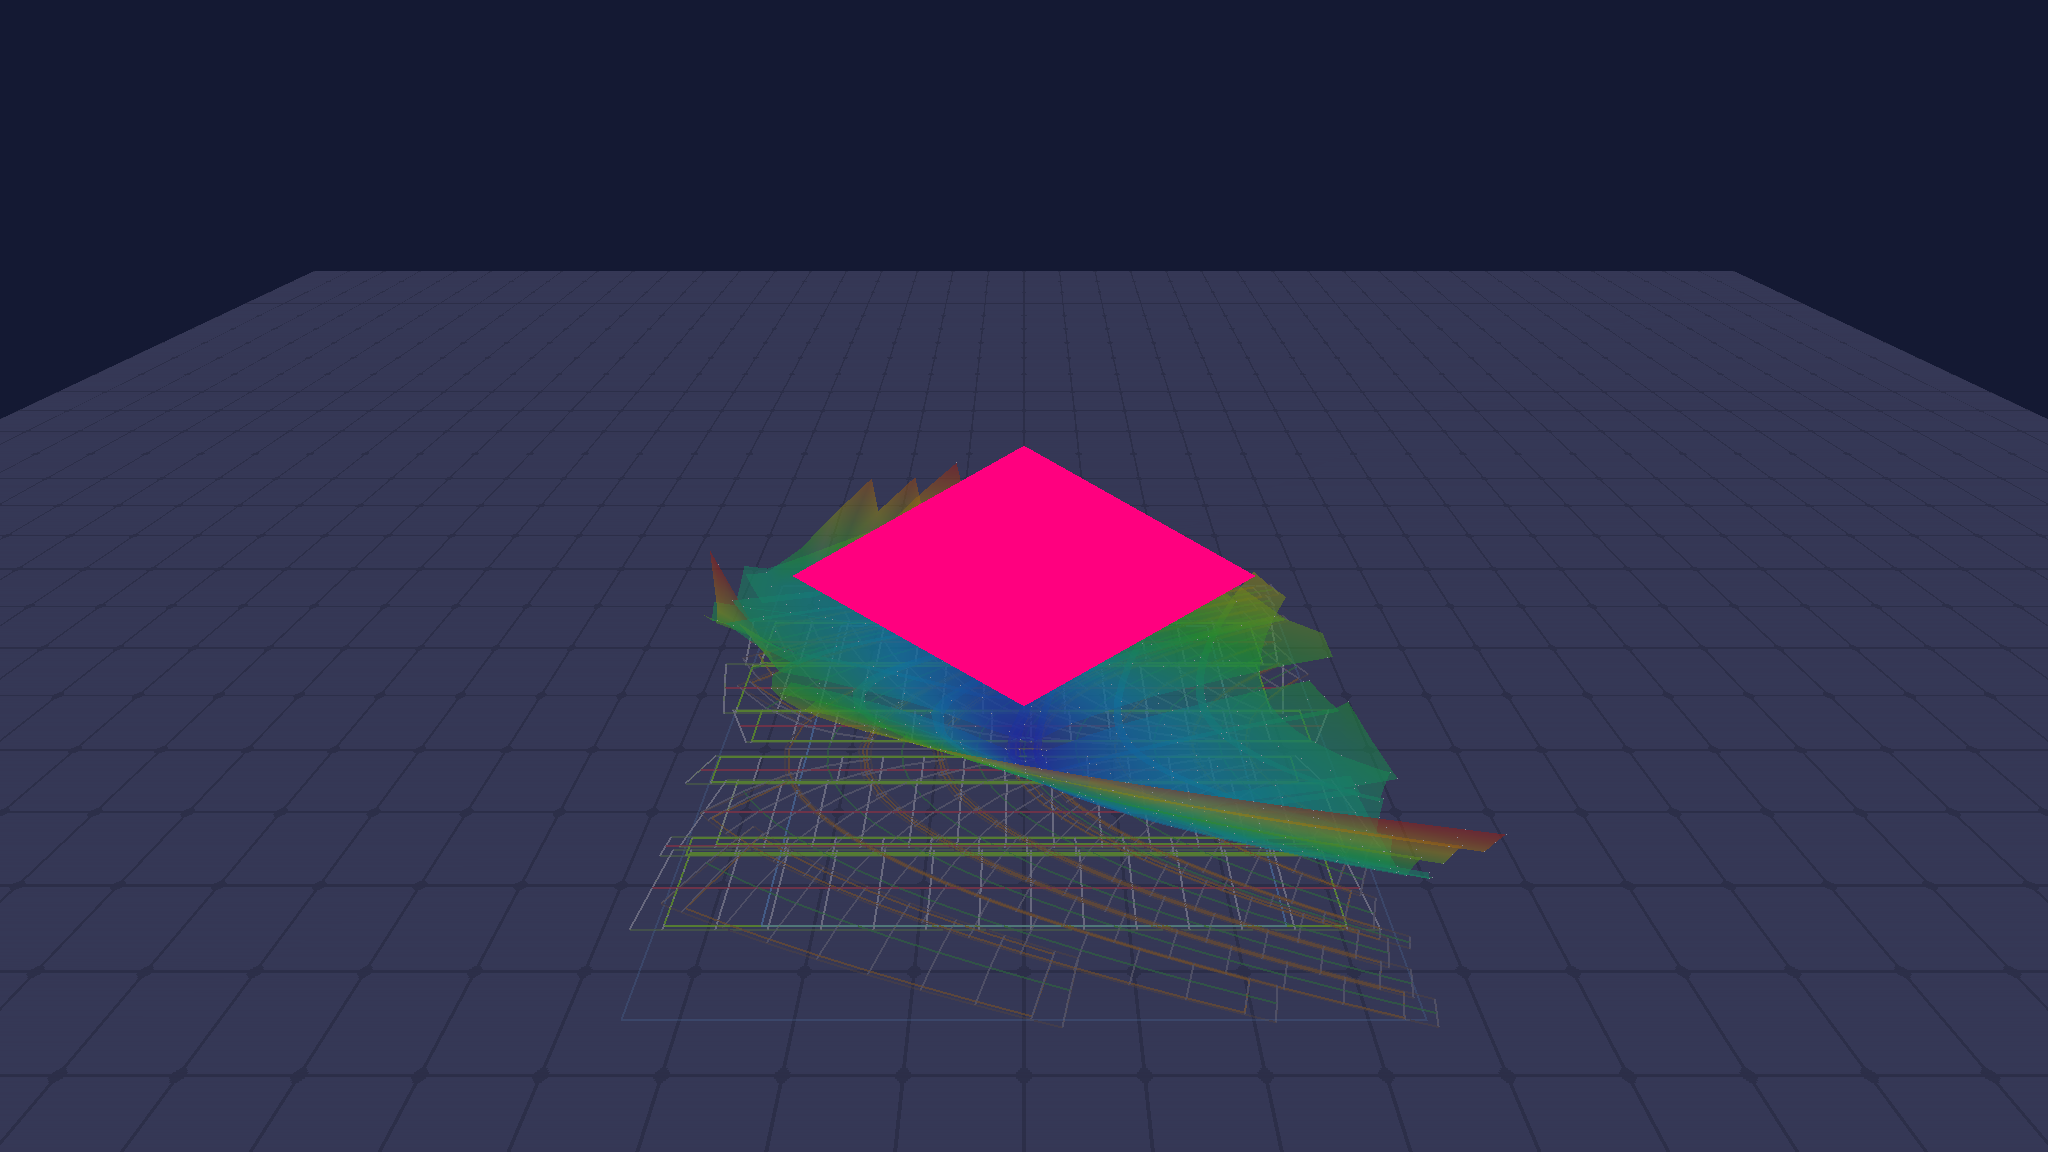
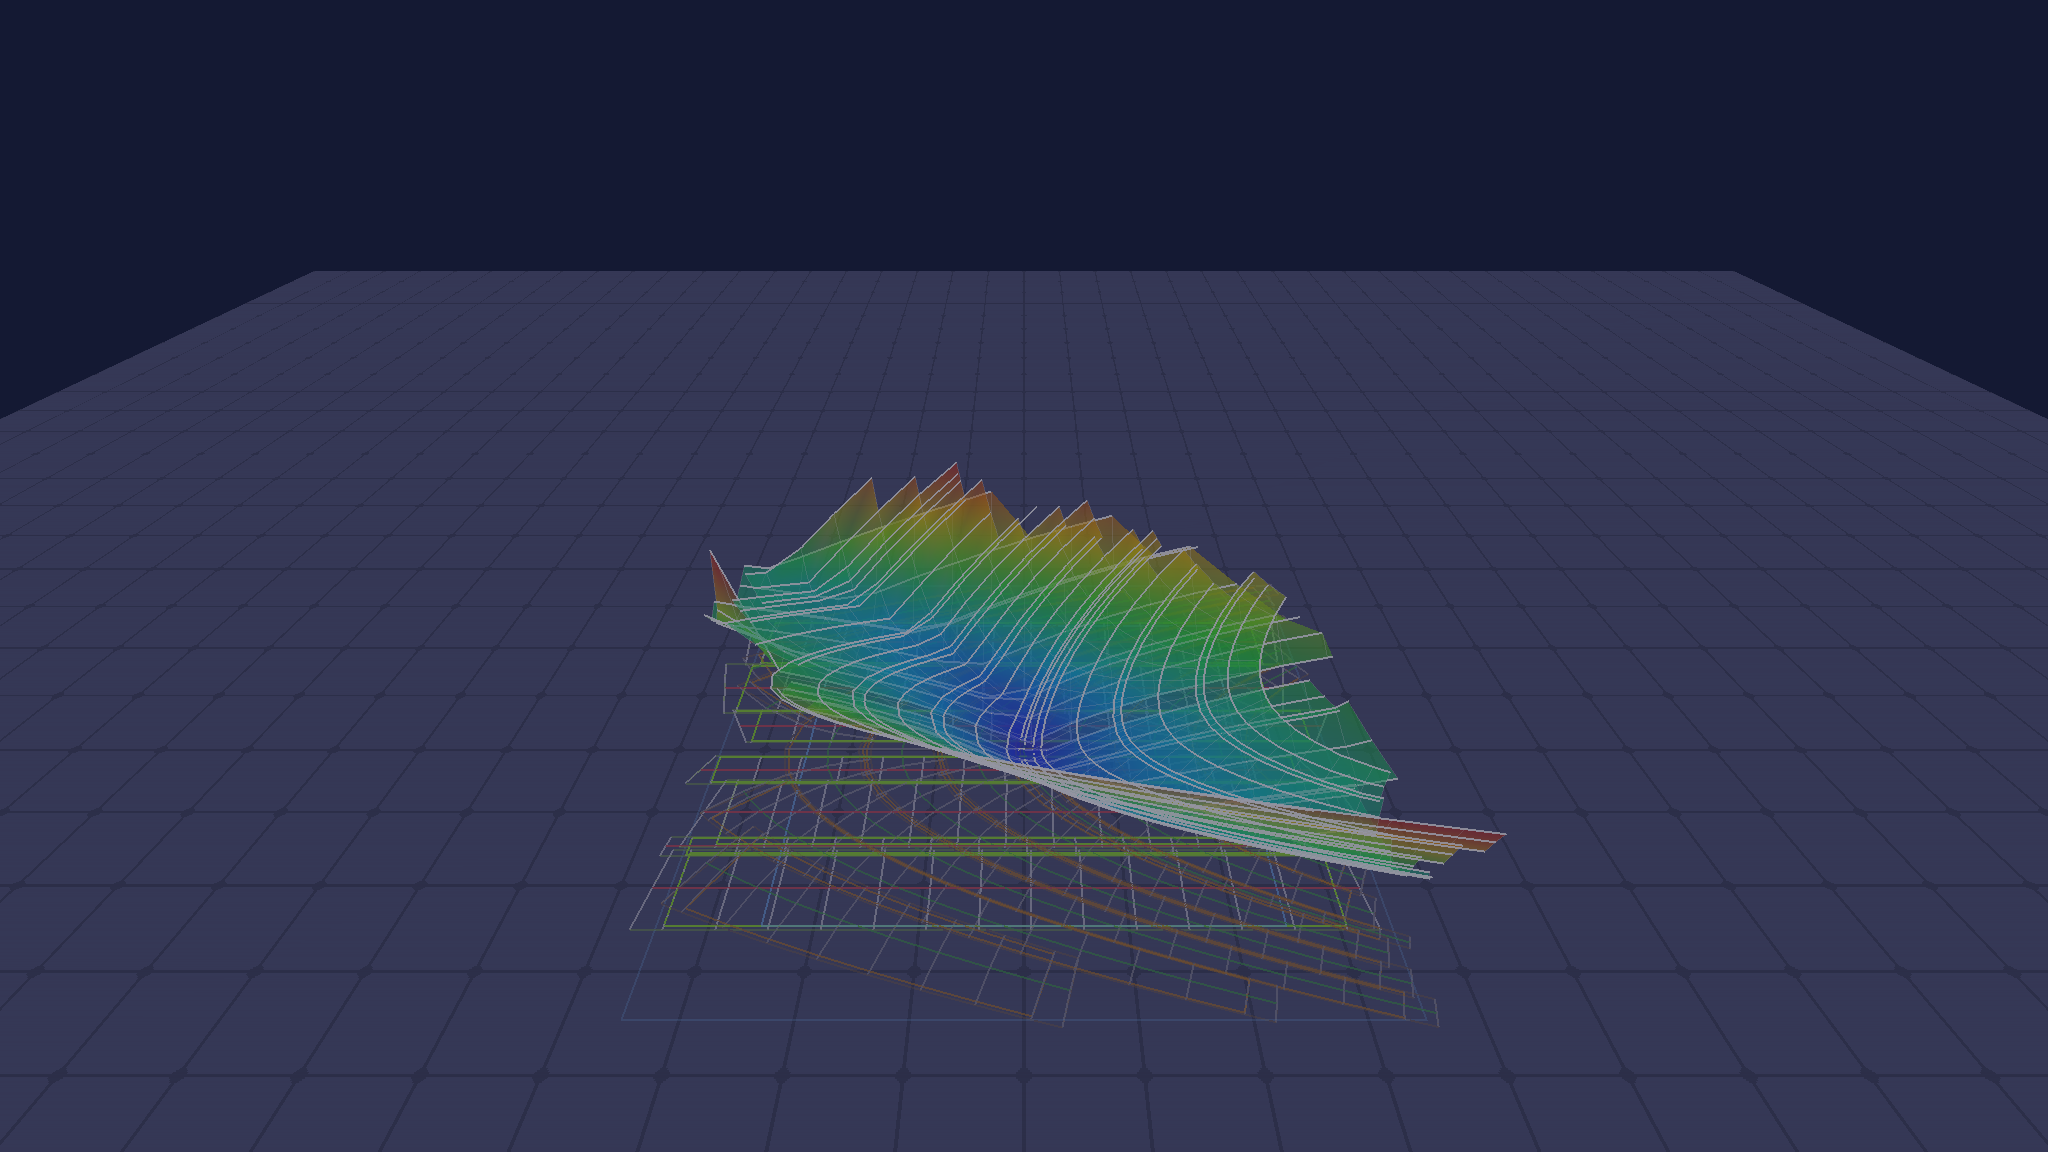
[laptop-v5chain-worker-4]: v8 — скелет на V-поверхности: линии вдоль траекторий и прозрачные поперечные (env VSURF_LONG_ALPHA/CROSS_ALPHA), тест рёбер
Claude-Session: https://claude.ai/code/session_0125J4RdEjwDP3recZhTuSTU

Changed region(s): [[0.3438, 0.375, 0.7188, 0.7812]]

diff --git a/spores_2/v8/src/stepper/vsurf.py b/spores_2/v8/src/stepper/vsurf.py
@@ -8,6 +8,8 @@ import numpy as np
 
 VH = float(os.environ.get('VSURF_H', .35))                 # высота на единицу V (в мировых единицах до зума)
 ALPHA = float(os.environ.get('VSURF_ALPHA', .55))
+LONG_A = float(os.environ.get('VSURF_LONG_ALPHA', .9))     # скелет: линии вдоль траекторий эволюции (узлы одного столбца)
+CROSS_A = float(os.environ.get('VSURF_CROSS_ALPHA', .25))   # скелет: поперечные линии (узлы одной строки), заметно прозрачнее
 BIG = 1e9                                                   # solve8.BIG: V ≥ BIG/2 — «нет пути»
 GRAD = np.array([[0., .20, .25, .95], [.25, .10, .75, .95], [.5, .20, .90, .30], [.75, 1., .85, .10], [1., .95, .20, .15]])     # t, R, G, B: синий → бирюзовый → зелёный → жёлтый → красный
 
@@ -40,15 +42,17 @@ def vscale(Vs_u, q=99.):
 
 
 def build_mesh(cells, Vs, ax=(0, 1), vmax=1., h=VH, alpha=ALPHA, y0=.01):
-    """клетки слоя + их V (nt, M) → dict: verts (K, 3), colors (K, 4), tris (T,) индексы, pts (P, 3), pcol (P, 4) — узлы на поверхности, inf (Q, 3) — узлы без V (серые, y = y0).
+    """клетки слоя + их V (nt, M) → dict: verts (K, 3), colors (K, 4), tris (T,) индексы, pts (P, 3), pcol (P, 4) — узлы на поверхности, inf (Q, 3) — узлы без V (серые, y = y0), long (2E, 3) — рёбра вдоль потока (k,j)–(k+1,j) парами вершин, cross (2F, 3) — рёбра поперёк (k,j)–(k,j+1); ребро с V=∞ нет.
     Координаты Ursina: x = ось ax[0], y = V·h (вверх), z = ось ax[1]."""
-    VV, CC, TT, PP, PC, II = [], [], [], [], [], []; n0 = 0
+    VV, CC, TT, PP, PC, II, LG, CR = [], [], [], [], [], [], [], []; n0 = 0
     for c, V in zip(cells, Vs):
         G = np.asarray(c['G']); nt, M = V.shape; fin = V < BIG / 2; P = np.empty((nt, M, 3)); P[..., 0] = G[..., ax[0]]; P[..., 2] = G[..., ax[1]]; P[..., 1] = np.where(fin, V * h, y0)
         col = gradient(np.where(fin, V, 0.) / max(vmax, 1e-9), alpha); col[~fin, 3] = 0.
         ids = n0 + np.arange(nt * M).reshape(nt, M); a, b, c_, d = ids[:-1, :-1], ids[:-1, 1:], ids[1:, :-1], ids[1:, 1:]; fa, fb, fc, fd = fin[:-1, :-1], fin[:-1, 1:], fin[1:, :-1], fin[1:, 1:]
         t1 = np.stack([a, b, c_], -1)[fa & fb & fc]; t2 = np.stack([b, d, c_], -1)[fb & fd & fc]; TT.append(np.concatenate([t1, t2]).ravel())
         VV.append(P.reshape(-1, 3)); CC.append(col.reshape(-1, 4)); n0 += nt * M
+        Pl = P + [0., .004, 0.]; okl = fin[:-1] & fin[1:]; okc = fin[:, :-1] & fin[:, 1:]                       # скелет на поверхности: ребро с вершиной V=∞ не рисуется
+        LG.append(np.stack([Pl[:-1][okl], Pl[1:][okl]], 1).reshape(-1, 3)); CR.append(np.stack([Pl[:, :-1][okc], Pl[:, 1:][okc]], 1).reshape(-1, 3))
         PP.append(P[fin] + [0., .004, 0.]); PC.append(np.broadcast_to([.96, .96, .96, .95], (int(fin.sum()), 4))); II.append(P[~fin])
     z3, z4 = np.zeros((0, 3)), np.zeros((0, 4)); cat = lambda L, z: np.concatenate(L) if L else z
-    return dict(verts=cat(VV, z3), colors=cat(CC, z4), tris=cat(TT, np.zeros(0, int)).astype(np.uint32), pts=cat(PP, z3), pcol=cat(PC, z4), inf=cat(II, z3))
+    return dict(verts=cat(VV, z3), colors=cat(CC, z4), tris=cat(TT, np.zeros(0, int)).astype(np.uint32), pts=cat(PP, z3), pcol=cat(PC, z4), inf=cat(II, z3), long=cat(LG, z3), cross=cat(CR, z3))

diff --git a/spores_2/v8/src/stepper/growview.py b/spores_2/v8/src/stepper/growview.py
@@ -260,7 +260,7 @@ class GrowView:
 
     def _draw_vsurf(s, snap):
         from . import vsurf as VS
-        names = lambda k: ('vsurf@%d' % k, 'vpts@%d' % k, 'vinf@%d' % k); z3 = np.zeros((0, 3))
+        names = lambda k: ('vsurf@%d' % k, 'vpts@%d' % k, 'vinf@%d' % k, 'vlong@%d' % k, 'vcross@%d' % k); z3 = np.zeros((0, 3))
         for k in range(max(getattr(s, '_nk', 0), 3)):
             if not (s.vmode and snap is not None):
                 for n in names(k):
@@ -277,7 +277,7 @@ class GrowView:
         if s._vres is None: return
         Vs, vmax, cl = s._vres; layers = snap.get('layers') or (); R = .5 * SPORE_SCALE * (s.sm.size if s.sm is not None else 1.)
         for k, u in enumerate(layers):
-            n_s, n_p, n_i = names(k)
+            n_s, n_p, n_i, n_l, n_c = names(k)
             if u not in cl or not s.vis[k]:
                 for n in names(k):
                     if n in s.layers: s.layers[n].set_geometry(z3)
@@ -285,6 +285,8 @@ class GrowView:
             m = VS.build_mesh(cl[u], Vs[u], s.ax, vmax); w = (1., 1., 1., 1.)
             s._layer(n_s, w).set_geometry(m['verts'], m['tris'], kind='tris', colors=m['colors'], depth_write=False)
             Dp, ip = _discs(m['pts'], R); s._layer(n_p, w).set_geometry(Dp, ip, kind='tris', colors=np.repeat(m['pcol'], 17, axis=0))
+            for nm, arr, a_, th in ((n_l, m['long'], VS.LONG_A, 2), (n_c, m['cross'], VS.CROSS_A, 1)):                                  # скелет: вдоль траекторий (ярко) и поперёк (прозрачнее)
+                s._layer(nm, w).set_geometry(arr, kind='lines', thick=th, colors=np.tile((.97, .97, .97, a_), (len(arr), 1)), depth_write=False)
             Di, ii = _discs(m['inf'], R); s._layer(n_i, w).set_geometry(Di, ii, kind='tris', colors=np.tile((.55, .55, .58, .9), (len(Di), 1)))
 
     def _box(s, extra):

diff --git a/spores_2/v8/tests/test_vsurf.py b/spores_2/v8/tests/test_vsurf.py
@@ -47,3 +47,13 @@ def test_inf_nodes_are_holes():
     A = _atlas(); Vs, _ = VS.solve_layers({1.: A[1.][:1]})    # один слой, одна клетка: часть узлов без пути
     cl = A[1.][:1]; m = VS.build_mesh(cl, Vs[1.], vmax=VS.vscale(Vs)); nt, M = Vs[1.][0].shape; fin = Vs[1.][0] < VS.BIG / 2
     assert len(m['inf']) == int((~fin).sum()) and len(m['pts']) == int(fin.sum())
+
+
+def test_skeleton_edges():
+    """рёбра скелета: вдоль (k,j)–(k+1,j) и поперёк (k,j)–(k,j+1) только между конечными узлами; число = числу конечных пар; концы лежат на узлах поверхности"""
+    A = _atlas(); Vs, _ = VS.solve_layers(A); vmax = VS.vscale(Vs)
+    for u, cl in A.items():
+        m = VS.build_mesh(cl, Vs[u], vmax=vmax); nl = nc = 0
+        for V in Vs[u]: f = V < VS.BIG / 2; nl += int((f[:-1] & f[1:]).sum()); nc += int((f[:, :-1] & f[:, 1:]).sum())
+        assert len(m['long']) == 2 * nl and len(m['cross']) == 2 * nc and nl > 0 and nc > 0
+        pts = {tuple(np.round(p, 6)) for p in m['pts']}; assert all(tuple(np.round(p, 6)) in pts for p in m['long'][:200]) and all(tuple(np.round(p, 6)) in pts for p in m['cross'][:200])

diff --git a/spores_2/v8/tests/smoke_vsurf_window.py b/spores_2/v8/tests/smoke_vsurf_window.py
@@ -6,7 +6,8 @@ from panda3d.core import Filename
 def shot(name):
     for _ in range(3): M.app.step()
     ok = ursina.application.base.win.save_screenshot(Filename.from_os_specific(os.path.join(os.environ.get('SHOT_DIR', r'C:\GitHub\claude-work\projects\spore\spores_2\v8\reports'), name))); print('shot', name, ok, flush=True)
-P = M.scene_setup.player; P.position = (0, 6, -9); P.camera_pivot.rotation_x = 32; P.rotation_y = 0
+P = M.scene_setup.player; P.cursor.enabled = False    # pink diamond = FirstPersonController crosshair (camera.ui, scale .008), huge in an offscreen buffer
+P.position = (0, 6, -9); P.camera_pivot.rotation_x = 32; P.rotation_y = 0
 M.stepper.key('C'); M.growview.draw(M.stepper.snapshot); shot('vsurf_smoke_off.png')
 M.growview.toggle_vsurf(); print(M.growview.vlabel()); shot('vsurf_smoke_on.png')
 M.growview.toggle_layer(1); shot('vsurf_smoke_layer2_hidden.png'); M.growview.toggle_layer(1)

diff --git a/spores_2/v8/sessions_task_log/session_laptop-v5chain-worker-4.md b/spores_2/v8/sessions_task_log/session_laptop-v5chain-worker-4.md
@@ -4,3 +4,5 @@
 
 - 11:47:34 · no data · начал: замер заезда 2-й споры на 1-ю (growN, u=±1)
 - 12:03:11 · no data · начал: задача 1 — ZSOFT в growN.stat
+- 12:21:22 · no data · закончил: задача 2 V-поверхность (клавиша v); жду добра
+- 12:26:39 · no data · начал: задача 3 — скелет V-поверхности, розовый ромб
